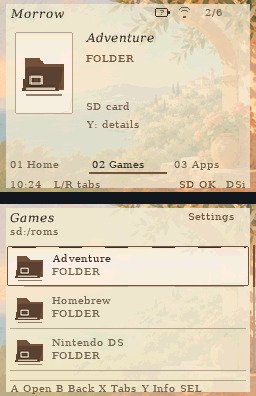
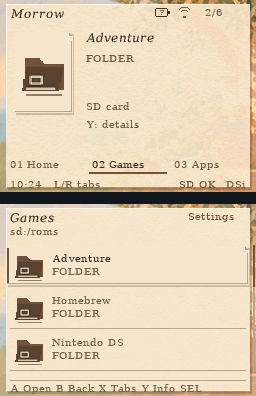
Give Morrow textured paper surfaces and folded stationery components

diff --git a/tools/build_collection.py b/tools/build_collection.py
@@ -122,7 +122,7 @@ SPECS = {
         radius=1,
         bpm=88,
         notes=[60, 64, 67, 71],
-        description="Terracotta, olive leaves and a sunlit sea. Paper tabs, stitched borders, quiet marimba and warm chord voicings.",
+        description="Sunlit illustration behind warm ivory stationery, folded paper selections, quiet marimba and warm chord voicings.",
     ),
 }
 COLOR_KEYS = ("background", "surface", "line", "text", "muted", "accent", "ink")
@@ -317,6 +317,55 @@ def icon(kind, spec):
     return image.resize((32, 32), Image.Resampling.LANCZOS)
 
 
+def paper_component(name, spec):
+    """Small stationery shapes; corner details stay inside the six-pixel slices."""
+    colors = dict(zip(COLOR_KEYS, spec["colors"]))
+    image = Image.new("RGBA", (32, 32))
+    draw = ImageDraw.Draw(image)
+    if name in ("header", "footer", "row", "icon-frame"):
+        return image
+    selected = name in ("row-selected", "card-selected", "tab-selected")
+    frame = name == "artwork-frame"
+    paper = Image.open(ROOT / "source/materials/morrow-paper.png").convert("RGBA")
+    paper = ImageOps.fit(paper, (32, 32), method=Image.Resampling.LANCZOS)
+    # An offset, partly transparent shadow, then a crisp sheet above it.
+    draw.rectangle((2, 3, 31, 31), fill=(*rgb(colors["muted"]), 85))
+    mask = Image.new("L", (32, 32))
+    edge = ImageDraw.Draw(mask)
+    edge.polygon([(1, 1), (26, 1), (30, 5), (30, 29), (1, 29)], fill=255)
+    paper.putalpha(mask)
+    image.alpha_composite(paper)
+    draw = ImageDraw.Draw(image)
+    draw.line([(1, 28), (29, 28), (29, 7)], fill=colors["line"])
+    draw.polygon([(26, 1), (26, 5), (30, 5)], fill=colors["line"])
+    draw.line([(26, 1), (26, 5), (30, 5)], fill=colors["surface"])
+    if selected:
+        # A printed left margin identifies selection without boxing in the text.
+        draw.line((1, 3, 1, 27), fill=colors["accent"], width=2)
+    if name == "tab-selected":
+        draw.rectangle((3, 3, 23, 26), fill=colors["accent"])
+    if frame:
+        draw.rectangle((4, 4, 25, 25), fill=(0, 0, 0, 0))
+    return image
+
+
+def paper_surfaces(folder):
+    """Native-size material assets keep the grain out of nine-slice stretching."""
+    paper = Image.open(ROOT / "source/materials/morrow-paper.png").convert("RGBA")
+    for screen, opacity in (("top", 238), ("bottom", 248)):
+        surface = Image.new("RGBA", (256, 192))
+        draw = ImageDraw.Draw(surface)
+        draw.rectangle((8, 6, 251, 189), fill=(77, 58, 35, 75))
+        sheet = ImageOps.fit(paper, (244, 184), method=Image.Resampling.LANCZOS)
+        sheet.putalpha(opacity)
+        surface.alpha_composite(sheet, (6, 4))
+        draw = ImageDraw.Draw(surface)
+        draw.line((6, 4, 249, 4), fill=(255, 251, 237, 230))
+        draw.line((6, 5, 6, 186), fill=(255, 251, 237, 190))
+        draw.line((7, 187, 249, 187), fill=(154, 131, 98, 150))
+        surface.save(folder / "backgrounds" / f"paper-{screen}.png", optimize=True)
+
+
 def component(name, spec):
     c = dict(zip(COLOR_KEYS, spec["colors"]))
     im = Image.new("RGBA", (32, 32))
@@ -357,6 +406,8 @@ def component(name, spec):
         d.line((16, 24, 16, 9), fill=c["ink"], width=3)
         d.line([(10, 15), (16, 9), (22, 15)], fill=c["ink"], width=3)
         return im
+    if spec["name"] == "Morrow":
+        return paper_component(name, spec)
     frame = name in ("icon-frame", "artwork-frame")
     if name == "icon-frame":
         if spec["name"] == "Vesper":
@@ -533,6 +584,8 @@ def build(id):
     tone = Image.new("RGB", (256, 192), spec["colors"][0])
     bottom = Image.blend(art, tone, 0.18)
     bottom.save(p / "backgrounds/bottom.png", optimize=True)
+    if id == "morrow":
+        paper_surfaces(p)
     for kind in ICONS:
         icon(kind, spec).save(p / "icons" / f"{kind}.png", optimize=True)
     for name in COMPONENTS:
@@ -568,6 +621,11 @@ def build(id):
         "bottom": "backgrounds/bottom.png",
         "strength": "100",
     }
+    if id == "morrow":
+        config["backgrounds"].update(
+            top_surface="backgrounds/paper-top.png",
+            bottom_surface="backgrounds/paper-bottom.png",
+        )
     config["icons"] = {"directory": "icons"}
     config["components"] = {"directory": "components", "border": "6"}
     config["audio"] = {
@@ -623,8 +681,8 @@ PROFILES = {
         layout="journal",
         tabs="numbered",
         position="bottom",
-        top=76,
-        bottom=88,
+        top=100,
+        bottom=100,
         body=("DejaVuSerif", 10, 9, 12),
         heading=("DejaVuSerif-Italic", 12, 12, 15),
     ),

diff --git a/tools/check_gloam.c b/tools/check_gloam.c
@@ -5,6 +5,7 @@
 #include "audio.h"
 #include "browser.h"
 #include "font_pack.h"
+#include "picker.h"
 #include "renderer.h"
 #include "settings.h"
 #include "themes.h"
@@ -99,6 +100,11 @@ int main(int argc, char **argv)
     ppm(argv[3], argv[2], "top", top.data);
     ppm(argv[3], argv[2], "bottom", bottom.data);
     snprintf(app.locations[app.category].path, PATH_CAP, "%s", saved_path);
+    app_category(&app, CATEGORY_HOME);
+    app.locations[CATEGORY_HOME].selected = 1;
+    draw();
+    ppm(argv[3], argv[2], "home-top", top.data);
+    ppm(argv[3], argv[2], "home-bottom", bottom.data);
     for (int view = 0; view < BROWSER_STYLE_COUNT; view++)
         for (int size = 0; size < 2; size++) {
             app.browser_style = view;
@@ -119,6 +125,16 @@ int main(int argc, char **argv)
     settings_open(&app);
     draw();
     ppm(argv[3], argv[2], "settings", bottom.data);
+    app.settings.open = false;
+    assert(picker_open_background(&app, 1));
+    for (int frame = 0; frame < 60; frame++)
+        picker_tick(&app);
+    assert(app.picker.count > 0 && !app.picker.failed);
+    snprintf(app.picker.path, PATH_CAP, "sd:/media");
+    draw();
+    ppm(argv[3], argv[2], "picker-top", top.data);
+    ppm(argv[3], argv[2], "picker-bottom", bottom.data);
+    picker_close(&app);
     audio_free_clip(&app.audio.music);
     for (int i = 0; i < 3; i++)
         audio_free_clip(&app.audio.effects[i]);

diff --git a/tools/render_previews.py b/tools/render_previews.py
@@ -44,6 +44,10 @@ def main():
     )
     roms = sd / "roms"
     roms.mkdir(exist_ok=True)
+    media = sd / "media"
+    media.mkdir(exist_ok=True)
+    # A valid picker fixture exercises selection skins and image previews.
+    shutil.copyfile(ROOT / "themes/morrow/backgrounds/top.png", media / "Morning.png")
     for name in ["Adventure", "Homebrew", "Nintendo DS", "Puzzle"]:
         (roms / name).mkdir(exist_ok=True)
     for name in [

diff --git a/themes/morrow/README.md b/themes/morrow/README.md
@@ -1,15 +1,21 @@
 # Morrow
 
-Terracotta, olive leaves and a sunlit sea. Paper tabs, stitched borders, quiet marimba and warm chord voicings.
+Sunlit illustration behind warm ivory stationery, folded paper selections,
+quiet marimba and warm chord voicings.
 
 ![Actual Gloam renderer preview](preview.png)
+
+Requires Gloam commit `a7c9676` or later for the separate reading-surface assets.
 
 ## Design
 
 - **Journal** composition; numbered navigation at the bottom.
 - **Extended** browser by default; other views and icon sizes remain selectable.
 - DejaVu Serif body at 10 px, with a separate DejaVu Serif-Italic heading face at 12 px.
-- Independent reading surfaces: top 76%, bottom 88% opacity.
+- Separate native-size paper assets for the two reading surfaces, with subtle
+  grain and translucent edges. PNG alpha supplies the coverage at 100% surface opacity.
+- Paper-strip selection and card assets with a printed margin, folded corner
+  and soft shadow. The same selection follows into file pickers and settings.
 - Four-level component coverage for translucent cards and layered edges. Modal panels retain solid reading surfaces.
 - Native title banners retain priority over themed fallback icons.
 

diff --git a/docs/AUTHORING.md b/docs/AUTHORING.md
@@ -65,3 +65,13 @@ Starter themes keep their original artwork/icons/audio; the tool uses Gloam's
 component generator for their material shapes, then adds coverage and fonts.
 Each pack retains asset provenance and a copy of the applicable font license.
 Do not label format-2 packs as compatible with Gloam 1.0.0.
+
+Morrow uses `[backgrounds] top_surface` and `bottom_surface` for separate
+256×192 RGBA PNG reading surfaces. These replace the flat mat and are blended
+once during theme loading. Its generated paper master is retained under
+`source/materials/`; `paper_surfaces()` builds native-size sheets so their grain
+is not stretched. `paper_component()` supplies the moving selection and cards.
+Keep opaque text areas quiet and corner details inside the six-pixel slice border.
+Surface alpha is multiplied by the corresponding screen's content opacity;
+Morrow uses 100 to retain the authored coverage. See its catalog entry for the
+required frontend revision. Earlier format-2 builds do not recognize these keys.

diff --git a/themes/morrow/CREDITS.md b/themes/morrow/CREDITS.md
@@ -1,9 +1,12 @@
 # Morrow — credits and license
 
-Art direction and theme integration: nextcode4u / Gloam Shell NDX project, with AI assistance.
+Art direction and theme integration: nextcode4u / Gloam Shell NDX project, with agent assistance.
 The wallpaper illustration was generated using OpenAI’s built-in image-generation tool
 for this theme. It is not copied from another launcher or a third-party theme pack.
 The selected production master is retained at `source/art/morrow.png` in this repository.
+The paper material was also generated with the built-in image-generation tool;
+its master is `source/materials/morrow-paper.png`. The authoring tool fits this
+material to the reading surfaces and combines it with the project's component geometry.
 
 Component and icon geometry, musical composition and synthesized sound cues are
 provided by `tools/build_collection.py`. No sampled songs or downloaded recordings
